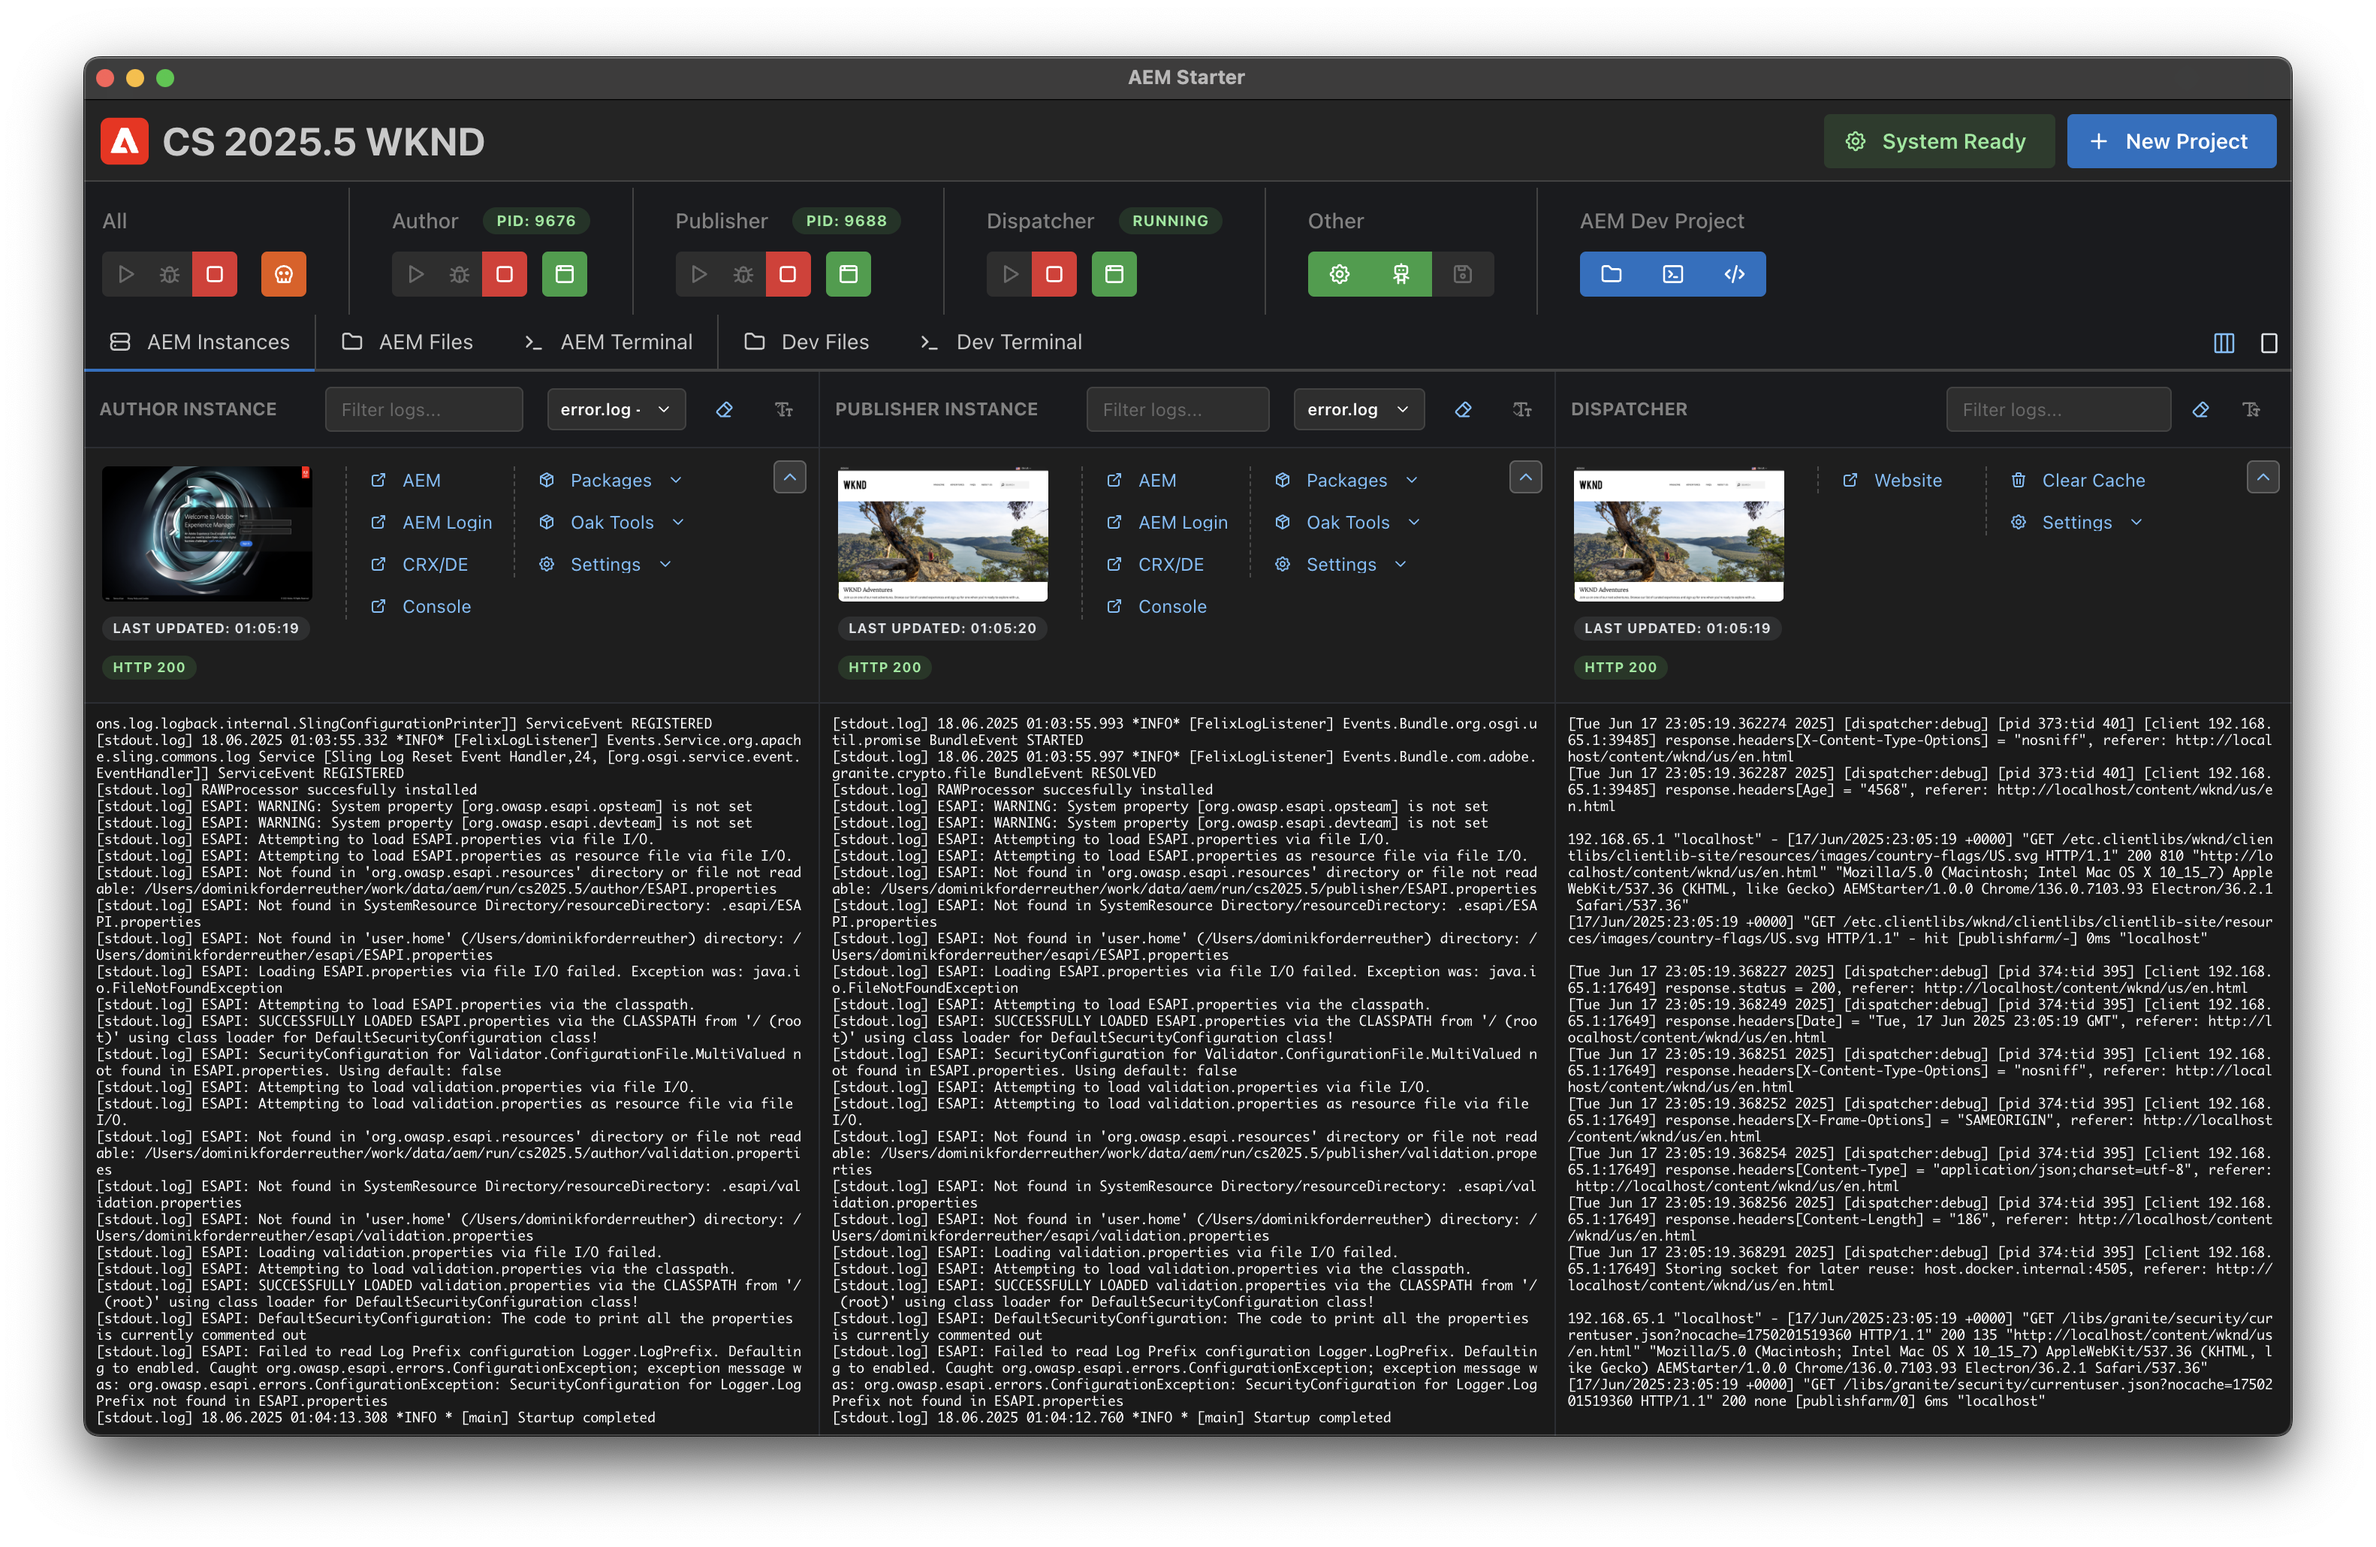
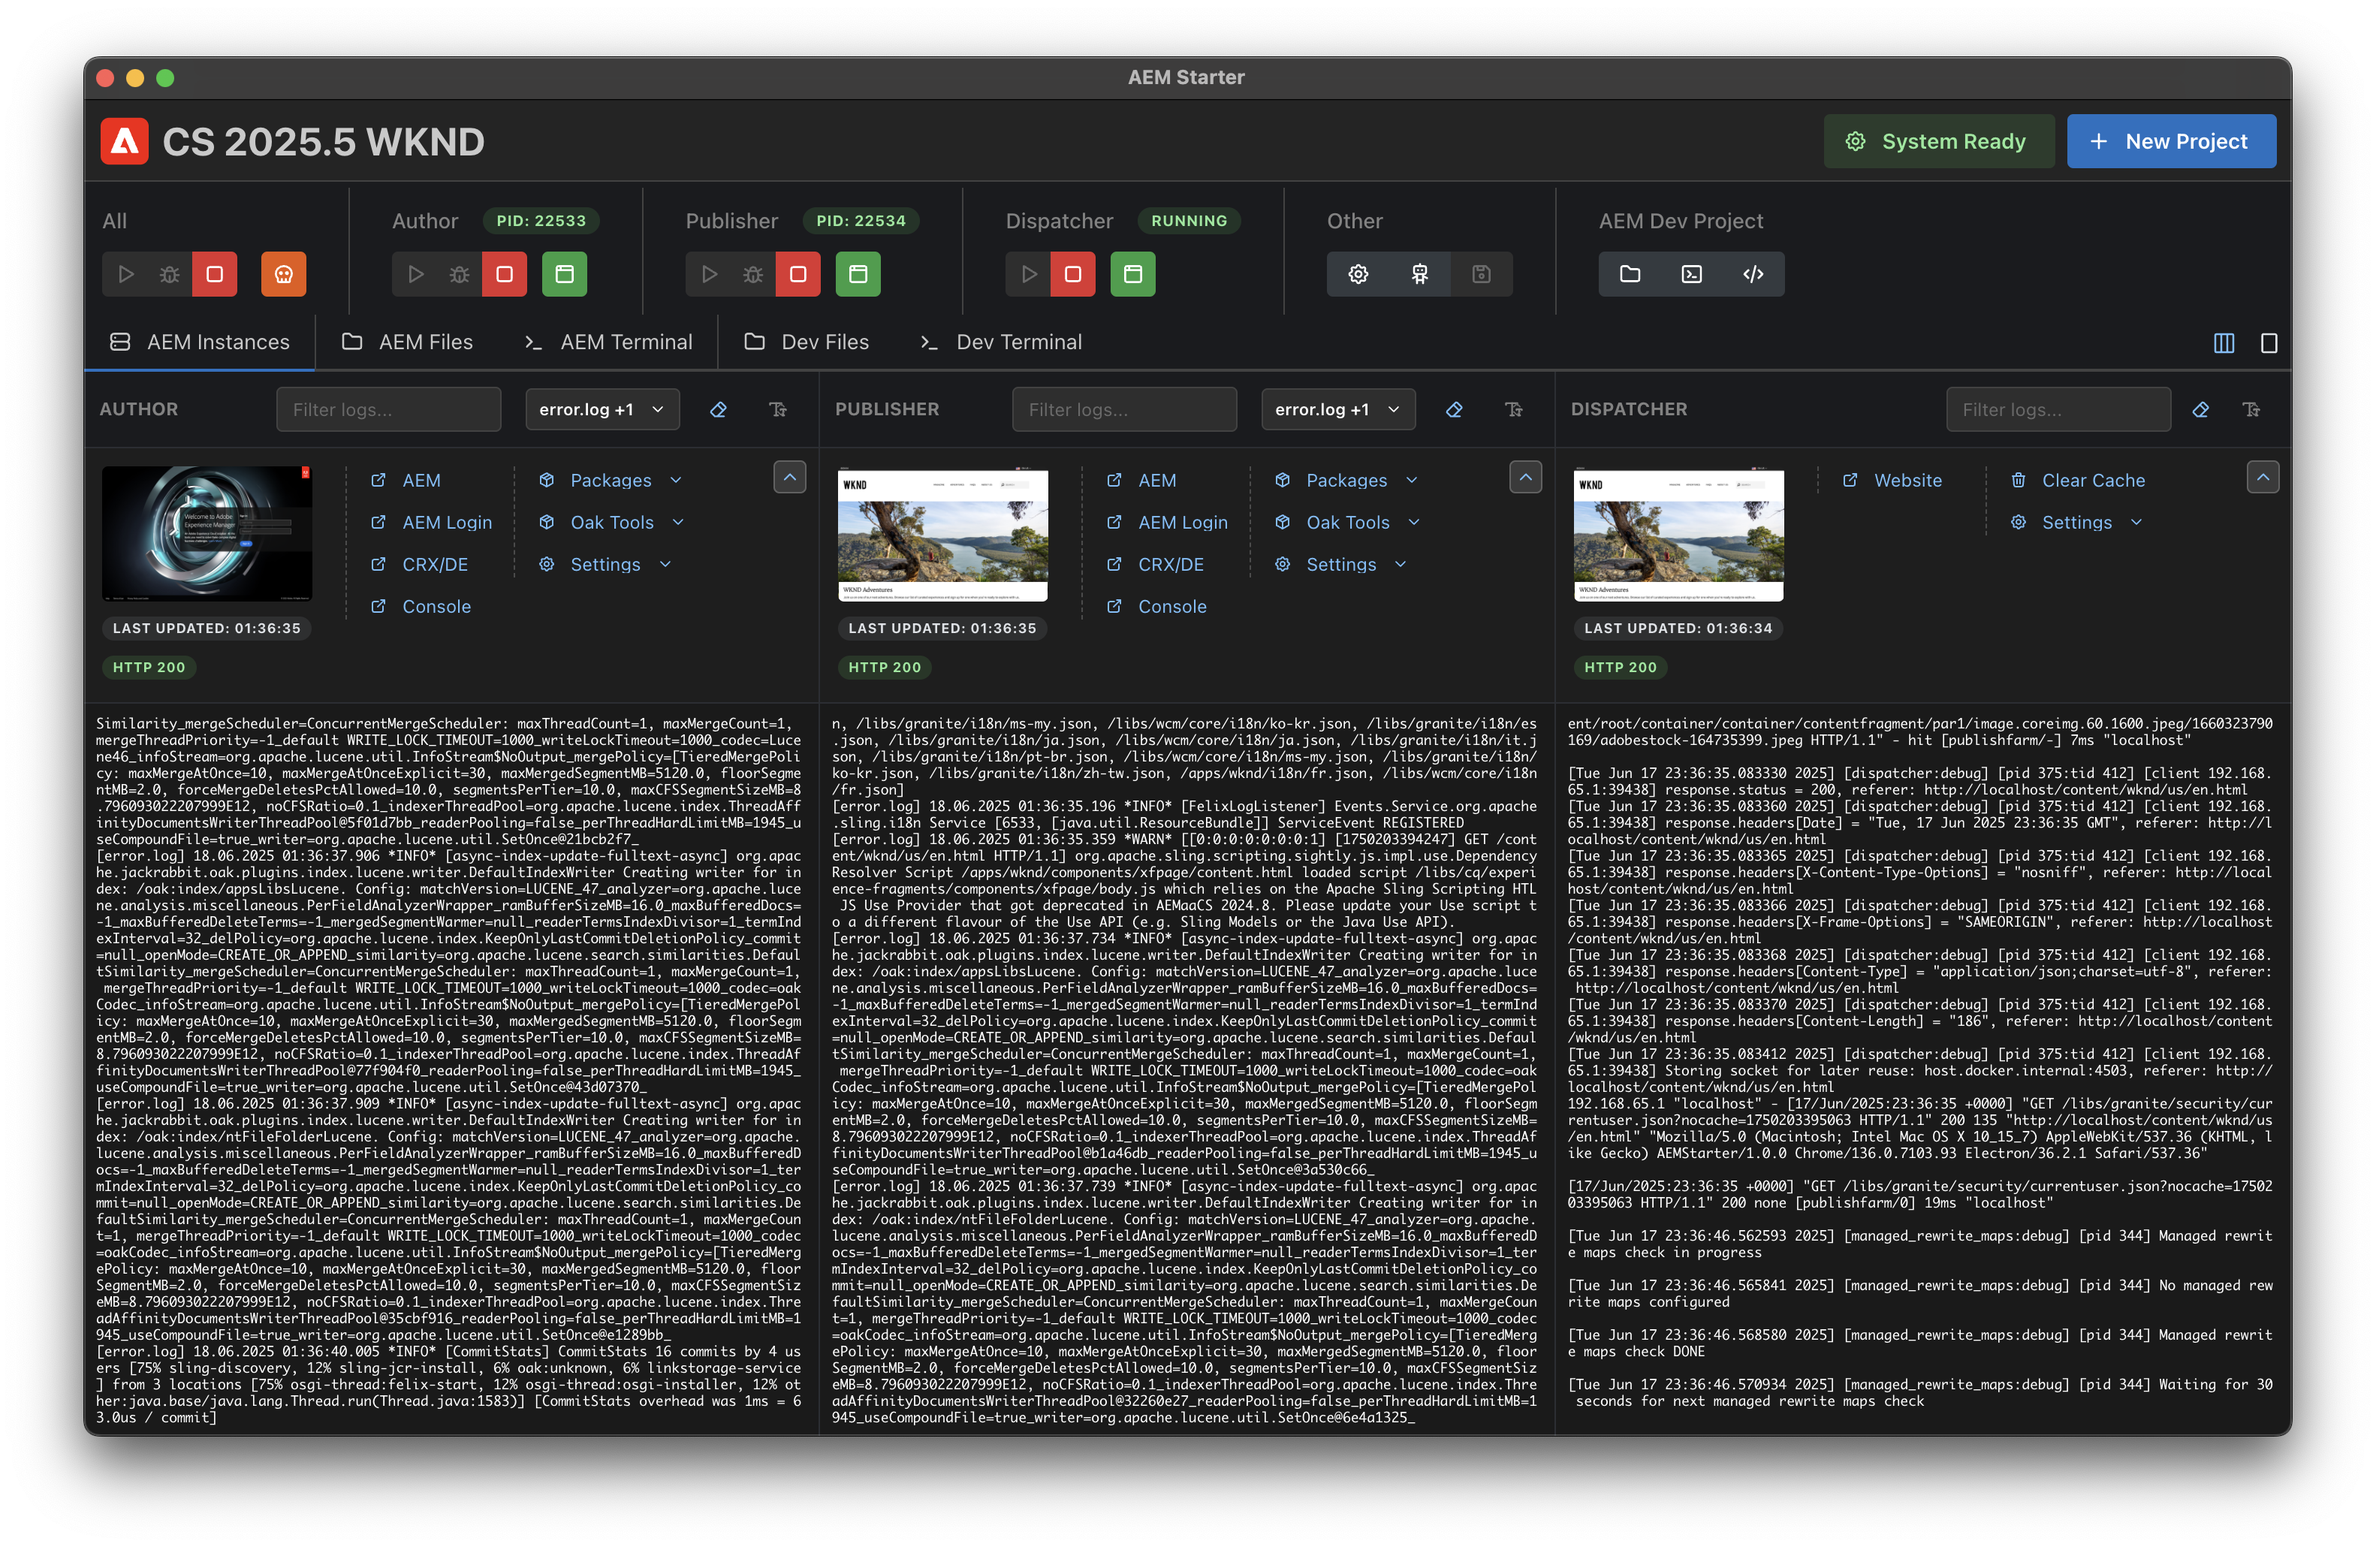
minor changes

diff --git a/src/renderer/components/MainActionsView.tsx b/src/renderer/components/MainActionsView.tsx
@@ -558,7 +558,7 @@ export const MainActionsView: React.FC<MainActionsViewProps> = ({ project, onPro
               <Button.Group>
                 <Tooltip label="Settings">
                   <Button 
-                    color="green" 
+                    color="gray" 
                     variant="filled" 
                     size="xs"
                     styles={secondButtonStyles}
@@ -569,7 +569,7 @@ export const MainActionsView: React.FC<MainActionsViewProps> = ({ project, onPro
                 </Tooltip>
               <Tooltip label="Automation">
                 <Button 
-                  color="green" 
+                  color="gray" 
                   variant="filled" 
                   size="xs"
                   styles={secondButtonStyles}
@@ -580,7 +580,7 @@ export const MainActionsView: React.FC<MainActionsViewProps> = ({ project, onPro
               </Tooltip>
               <Tooltip label="Backup & Restore">
                 <Button
-                  color="blue"
+                  color="gray"
                   variant="filled"
                   size="xs"
                   styles={secondButtonStyles}
@@ -603,7 +603,7 @@ export const MainActionsView: React.FC<MainActionsViewProps> = ({ project, onPro
             <Button.Group>
               <Tooltip label={!project.settings?.dev?.path ? "Configure dev path in settings" : "Open files in Finder"}>
                 <Button 
-                  color="blue" 
+                  color="gray" 
                   variant="filled" 
                   size="xs"
                   styles={secondButtonStyles}
@@ -621,7 +621,7 @@ export const MainActionsView: React.FC<MainActionsViewProps> = ({ project, onPro
               </Tooltip>
               <Tooltip label={!project.settings?.dev?.path ? "Configure dev path in settings" : "Open in terminal"}>
                 <Button 
-                  color="blue" 
+                  color="gray" 
                   variant="filled" 
                   size="xs"
                   styles={secondButtonStyles}
@@ -639,7 +639,7 @@ export const MainActionsView: React.FC<MainActionsViewProps> = ({ project, onPro
               </Tooltip>
               <Tooltip label={!project.settings?.dev?.path ? "Configure dev path in settings" : "Open in editor"}>
                 <Button 
-                  color="blue" 
+                  color="gray" 
                   variant="filled" 
                   size="xs"
                   styles={secondButtonStyles}

diff --git a/src/renderer/App.tsx b/src/renderer/App.tsx
@@ -26,7 +26,6 @@ const App: React.FC = () => {
   const [projects, setProjects] = useState<Project[]>([]);
   const [loading, setLoading] = useState(true);
   const [modalOpen, setModalOpen] = useState(false);
-  const [deleteDialogOpen, setDeleteDialogOpen] = useState(false);
 
   // Handle new project creation callback
   const handleProjectCreated = async (project: Project) => {
@@ -92,22 +91,6 @@ const App: React.FC = () => {
       cleanupRecentProject();
     };
   }, [projects]);
-
-  // Save selected project when it changes
-  const handleProjectSelect = async (project: Project | null) => {
-    setSelectedProject(project);
-    if (project) {
-      await window.electronAPI.setLastProjectId(project.id);
-    } else {
-      await window.electronAPI.setLastProjectId(null);
-    }
-  };
-
-  // Handle dropdown change
-  const handleDropdownChange = (projectId: string | null) => {
-    const project = projects.find(p => p.id === projectId) || null;
-    handleProjectSelect(project);
-  };
 
   // Handle opening an existing project folder
   const handleOpenProjectFolder = async (folderPath: string) => {

diff --git a/src/renderer/components/AemInstanceView.tsx b/src/renderer/components/AemInstanceView.tsx
@@ -271,7 +271,7 @@ export const AemInstanceView = ({
         <Box p="xs" style={{ borderBottom: '1px solid #2C2E33', margin: 0 }}>
           <Group justify="space-between" align="center" wrap="nowrap" style={{ width: '100%' }}>
             <Text size="xs" fw={700} c="dimmed" style={{ whiteSpace: 'nowrap' }}>
-              {instance.toUpperCase()} INSTANCE 
+              {instance.toUpperCase()} 
             </Text>
             <Box style={{ flex: 1 }} />
             <TextInput

diff --git a/src/main.ts b/src/main.ts
@@ -513,6 +513,9 @@ ipcMain.handle('save-project-settings', async (_, project: Project, settings: an
       }
     }
     
+    // Refresh menu to update recent projects with new name if it changed
+    createMenu();
+    
     // Return the updated project so the frontend can update its state
     return updatedProject;
   } catch (error) {

diff --git a/src/main/services/ProjectManager.ts b/src/main/services/ProjectManager.ts
@@ -207,6 +207,7 @@ export class ProjectManager {
     const project = this.projects[index];
     const updatedProject = {
       ...project,
+      name: settings.general?.name || project.name, // Sync project.name with settings.general.name
       settings,
       lastModified: new Date()
     };
